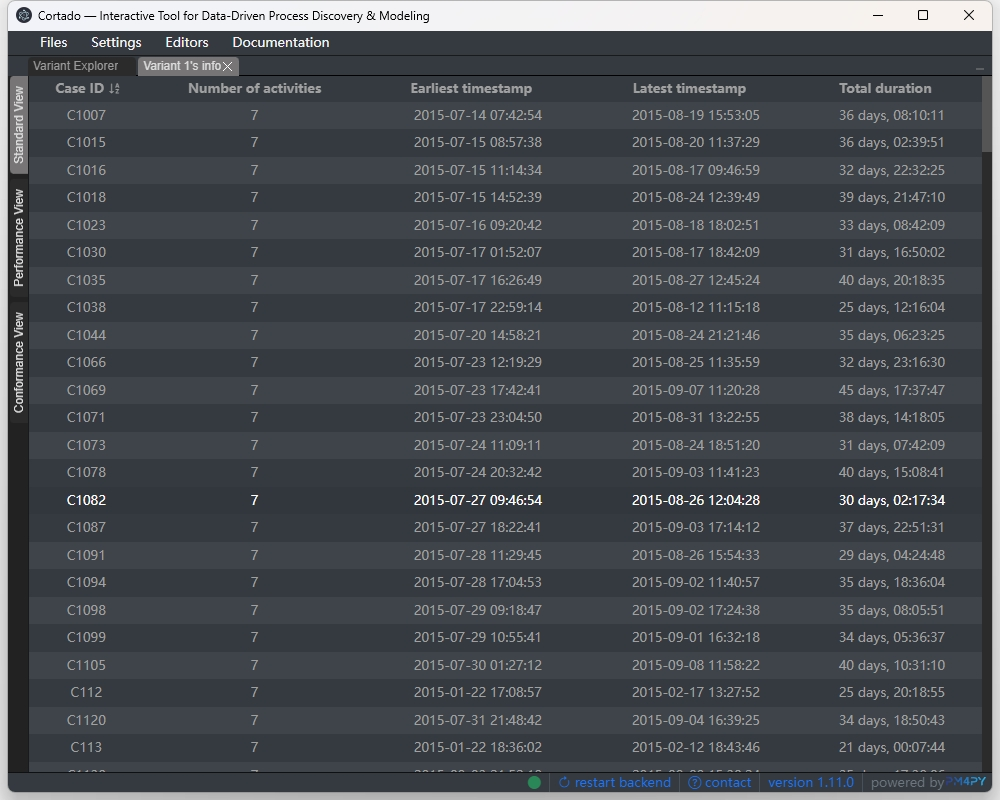
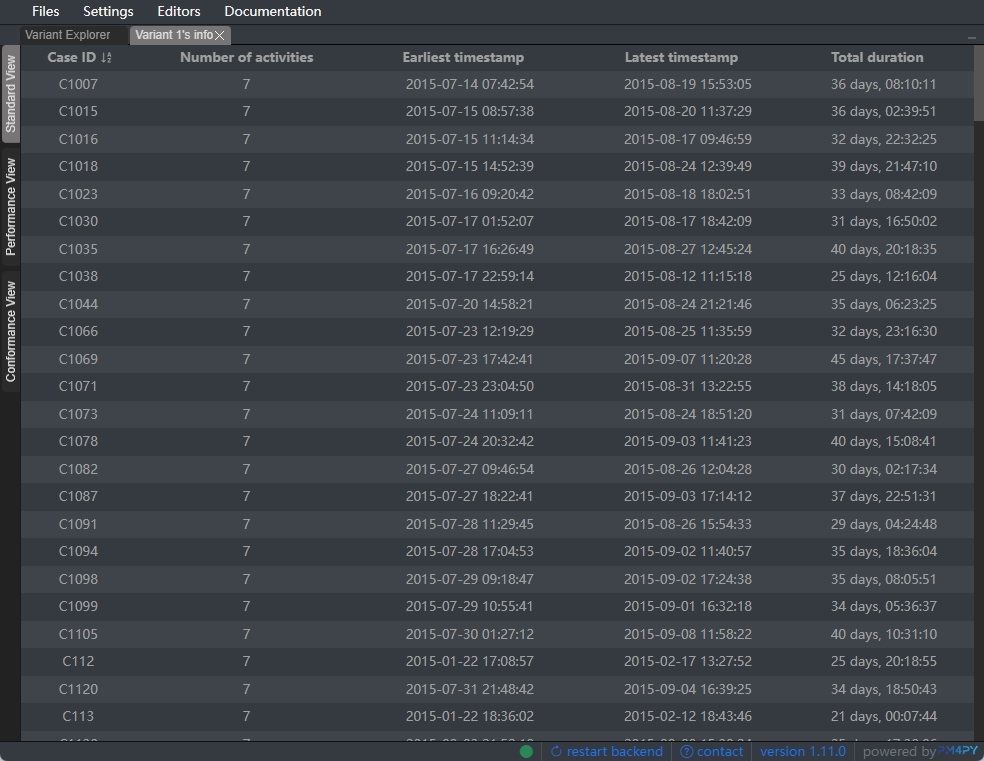
update with images

Changed region(s): [[0.0, 0.0, 1.0, 1.0]]

diff --git a/src/frontend/src/app/constants/backend_route_constants.ts b/src/frontend/src/app/constants/backend_route_constants.ts
@@ -1,5 +1,5 @@
 export class ROUTES {
-  public static BASE_URL = '127.0.0.1:41213/';
+  public static BASE_URL = '127.0.0.1:41211/';
   public static HTTP_BASE_URL = 'http://' + this.BASE_URL;
   public static WS_HTTP_BASE_URL = 'ws://' + this.BASE_URL;
 

diff --git a/src/backend/main.py b/src/backend/main.py
@@ -76,6 +76,6 @@ def get_all_urls():
 if __name__ == "__main__":
     # print(DEFAULT_LP_SOLVER_VARIANT)
     freeze_support()
-    uvicorn.run("main:app", host="0.0.0.0", port=41213, workers=1, reload=CORTADO_DEBUG)
+    uvicorn.run("main:app", host="0.0.0.0", port=41211, workers=1, reload=CORTADO_DEBUG)
     # dev mode
     # uvicorn.run("main:app", host="0.0.0.0", port=8000, reload=True)

diff --git a/src/frontend/src/assets/doc/user_manual.md b/src/frontend/src/assets/doc/user_manual.md
@@ -88,42 +88,15 @@ Beneath the listed variants, there are also statistic displayed for the whole ev
 In the variant explorer, you can perform various actions.
 
 ### Variant Information Explorer
-![Variant Info Explorer](./screenshots/variant_explorer/variant_info_explorer_detail.png)
-By clicking the variant's count in Variant Explorer, a new Variant Information Explorer window opened in the stack of Variant Explorer. In Variant Information Explorer, all cases of the selected variant are listed, with their information including case ID, earliest and latest timestamp, and duration. The case list could be sorted by case ID (alphabet order), timestamp, and duration.
+![Variant Info Explorer](./screenshots/variant_explorer/variant_info_explorer_detail.png) <br>
+
+By clicking the variant's count in Variant Explorer, a new Variant Information Explorer window opened in the stack of Variant Explorer. In Variant Information Explorer, all cases of the selected variant are listed, with their information including case ID, earliest and latest timestamp, and duration. The case list could be sorted by case ID (in alphabet order), timestamp, and duration.
 
 ### Case Information Exploerer
-![Case Explorer](./screenshots/variant_explorer/case_explorer_detail.png)
+![Case Explorer](./screenshots/variant_explorer/case_explorer_detail.png)<br>
+
 By clicking the case ID in Variant Information Explorer, a new Case Information Explorer window opened in the stack of Variant Explorer. In Case Information Explorer, the events of the selected case are listed in time order, with their information including starting timestamp, ending timestamp, duration, and resources of the event.
 
-### Tiebreaker
-![Tiebreaker](./screenshots/variant_explorer/tiebreaker.png)
-Tiebreaker is a sequentialization tool which provides a function to match source pattern in variants and replace them with the target pattern. In tiebreaker, there are two pattern editors to model the source pattern and target pattern, respectively. In addition to sequential and parallel pattern, the tiebreaker allows to create:
-1. choice group, which could match any combination of any activities in the group;  
-![ChoiceGroup](./screenshots/variant_explorer/choicegroup.png)
-2. fallthrough group;  
-![FallthroughGroup](./screenshots/variant_explorer/fallthroughgroup.png)
-3. pattern with a wildcard option '..' to allow partial match, which represents "rest of the variant".  
-![Wildcard](./screenshots/variant_explorer/wildcard.png)
-
-Note：
-1. in source pattern, only parallel variants are allowed.
-2. The invalid patterns are checked when editing.
-3. The activities in target pattern should be consistent with activities in the source pattern. Acitivities in target pattern editor are only enabled when they are already in the source pattern.
-
-Here are some examples to show how variants are transformed by the tiebreaker:
-- (1)![](./screenshots/variant_explorer/tiebreaker_examples_1.png)
-- (2)![](./screenshots/variant_explorer/tiebreaker_examples_2.png)
-- (3)![](./screenshots/variant_explorer/tiebreaker_examples_3.png)
-- (4)![](./screenshots/variant_explorer/tiebreaker_examples_4.png)
-- (5)![](./screenshots/variant_explorer/tiebreaker_examples_5.png)
-
-| Source Pattern   | Target Pattern | Result for examples       |
-|:-------:|:-----:|----------|
-| ![](./screenshots/variant_explorer/tiebreaker_examples_2.png)   | ![](./screenshots/variant_explorer/tiebreaker_examples_6.png)  | (1) No match<br> (2) ![](./screenshots/variant_explorer/tiebreaker_examples_6.png)<br> (3) No match<br> (4) No match<br> (5) No match<br>   |
-| ![](./screenshots/variant_explorer/tiebreaker_examples_7.png)   | ![](./screenshots/variant_explorer/tiebreaker_examples_8.png)  | (1) ![](./screenshots/variant_explorer/tiebreaker_examples_9.png)<br> (2) ![](./screenshots/variant_explorer/tiebreaker_examples_6.png)<br> (3) No match<br> (4) ![](./screenshots/variant_explorer/tiebreaker_examples_10.png)<br> (5) ![](./screenshots/variant_explorer/tiebreaker_examples_9.png)<br>   |
-| ![](./screenshots/variant_explorer/tiebreaker_examples_7.png)   | ![](./screenshots/variant_explorer/tiebreaker_examples_11.png)  | (1) ![](./screenshots/variant_explorer/tiebreaker_examples_12.png)<br> (2) ![](./screenshots/variant_explorer/tiebreaker_examples_6.png)<br> (3) ![](./screenshots/variant_explorer/tiebreaker_examples_13.png)<br> (4) ![](./screenshots/variant_explorer/tiebreaker_examples_14.png)<br> (5) ![](./screenshots/variant_explorer/tiebreaker_examples_12.png)<br>   |
-| ![](./screenshots/variant_explorer/tiebreaker_examples_15.png)   | ![](./screenshots/variant_explorer/tiebreaker_examples_16.png)  | (1) No match<br> (2) ![](./screenshots/variant_explorer/tiebreaker_examples_6.png)<br> (3) No match<br><br> (4) ![](./screenshots/variant_explorer/tiebreaker_examples_17.png)<br> (5) No match<br><br>   |
-| ![](./screenshots/variant_explorer/tiebreaker_examples_18.png)   | ![](./screenshots/variant_explorer/tiebreaker_examples_19.png)  | (1) ![](./screenshots/variant_explorer/tiebreaker_examples_20.png)<br> (2) ![](./screenshots/variant_explorer/tiebreaker_examples_6.png)<br> (3) ![](./screenshots/variant_explorer/tiebreaker_examples_21.png)<br> (4) ![](./screenshots/variant_explorer/tiebreaker_examples_17.png)<br> (5) ![](./screenshots/variant_explorer/tiebreaker_examples_20.png)<br>   |
 ### Variant Sorting
 
 From the dropdown <i class="bi bi-sort-alpha-down btn-icon"></i>`Sorting` one can sort the listed variants based on different criteria:
@@ -441,6 +414,41 @@ The editor comprises primarily of <i>three sections</i>, all of which rely heavi
    Switching the toggle off, retains only the infixes *not* containing the activity.
 
 ## Variant Sequentialization (Tiebreaker)
+Tiebreaker is a sequentialization tool which provides a function to match source pattern in variants and replace them with the target pattern. In tiebreaker, there are two pattern editors to model the source pattern and target pattern, respectively. In addition to sequential and parallel pattern, the tiebreaker allows to create:<br>
+
+![Tiebreaker](./screenshots/variant_sequentialization/tiebreaker.png)
+
+1. choice group, which could match any combination of any activities in the group;
+
+![ChoiceGroup](./screenshots/variant_sequentialization/choicegroup.png)
+
+2. fallthrough group;
+
+![FallthroughGroup](./screenshots/variant_sequentialization/fallthroughgroup.png)
+
+3. pattern with a wildcard option '..' to allow partial match, which represents "rest of the variant".
+
+![medium](./screenshots/variant_sequentialization/wildcard.png)
+
+Note：
+1. in source pattern, only parallel variants are allowed.
+2. The invalid patterns are checked when editing.
+3. The activities in target pattern should be consistent with activities in the source pattern. Acitivities in target pattern editor are only enabled when they are already in the source pattern.
+
+Here are some examples to show how variants are transformed by the tiebreaker:
+- (1)![](./screenshots/variant_sequentialization/tiebreaker_examples_1.png)
+- (2)![](./screenshots/variant_sequentialization/tiebreaker_examples_2.png)
+- (3)![](./screenshots/variant_sequentialization/tiebreaker_examples_3.png)
+- (4)![](./screenshots/variant_sequentialization/tiebreaker_examples_4.png)
+- (5)![](./screenshots/variant_sequentialization/tiebreaker_examples_5.png)
+
+| Source Pattern   | Target Pattern | Result for examples       |
+|:-------:|:-----:|----------|
+| ![](./screenshots/variant_sequentialization/tiebreaker_examples_2.png)   | ![](./screenshots/variant_sequentialization/tiebreaker_examples_6.png)  | (1) No match<br> (2) ![](./screenshots/variant_sequentialization/tiebreaker_examples_6.png)<br> (3) No match<br> (4) No match<br> (5) No match<br>   |
+| ![](./screenshots/variant_sequentialization/tiebreaker_examples_7.png)   | ![](./screenshots/variant_sequentialization/tiebreaker_examples_8.png)  | (1) ![](./screenshots/variant_sequentialization/tiebreaker_examples_9.png)<br> (2) ![](./screenshots/variant_sequentialization/tiebreaker_examples_6.png)<br> (3) No match<br> (4) ![](./screenshots/variant_sequentialization/tiebreaker_examples_10.png)<br> (5) ![](./screenshots/variant_sequentialization/tiebreaker_examples_9.png)<br>   |
+| ![](./screenshots/variant_sequentialization/tiebreaker_examples_7.png)   | ![](./screenshots/variant_sequentialization/tiebreaker_examples_11.png)  | (1) ![](./screenshots/variant_sequentialization/tiebreaker_examples_12.png)<br> (2) ![](./screenshots/variant_sequentialization/tiebreaker_examples_6.png)<br> (3) ![](./screenshots/variant_sequentialization/tiebreaker_examples_13.png)<br> (4) ![](./screenshots/variant_sequentialization/tiebreaker_examples_14.png)<br> (5) ![](./screenshots/variant_sequentialization/tiebreaker_examples_12.png)<br>   |
+| ![](./screenshots/variant_sequentialization/tiebreaker_examples_15.png)   | ![](./screenshots/variant_sequentialization/tiebreaker_examples_16.png)  | (1) No match<br> (2) ![](./screenshots/variant_sequentialization/tiebreaker_examples_6.png)<br> (3) No match<br><br> (4) ![](./screenshots/variant_sequentialization/tiebreaker_examples_17.png)<br> (5) No match<br><br>   |
+| ![](./screenshots/variant_sequentialization/tiebreaker_examples_18.png)   | ![](./screenshots/variant_sequentialization/tiebreaker_examples_19.png)  | (1) ![](./screenshots/variant_sequentialization/tiebreaker_examples_20.png)<br> (2) ![](./screenshots/variant_sequentialization/tiebreaker_examples_6.png)<br> (3) ![](./screenshots/variant_sequentialization/tiebreaker_examples_21.png)<br> (4) ![](./screenshots/variant_sequentialization/tiebreaker_examples_17.png)<br> (5) ![](./screenshots/variant_sequentialization/tiebreaker_examples_20.png)<br>   |
 
 
 # Process Discovery
